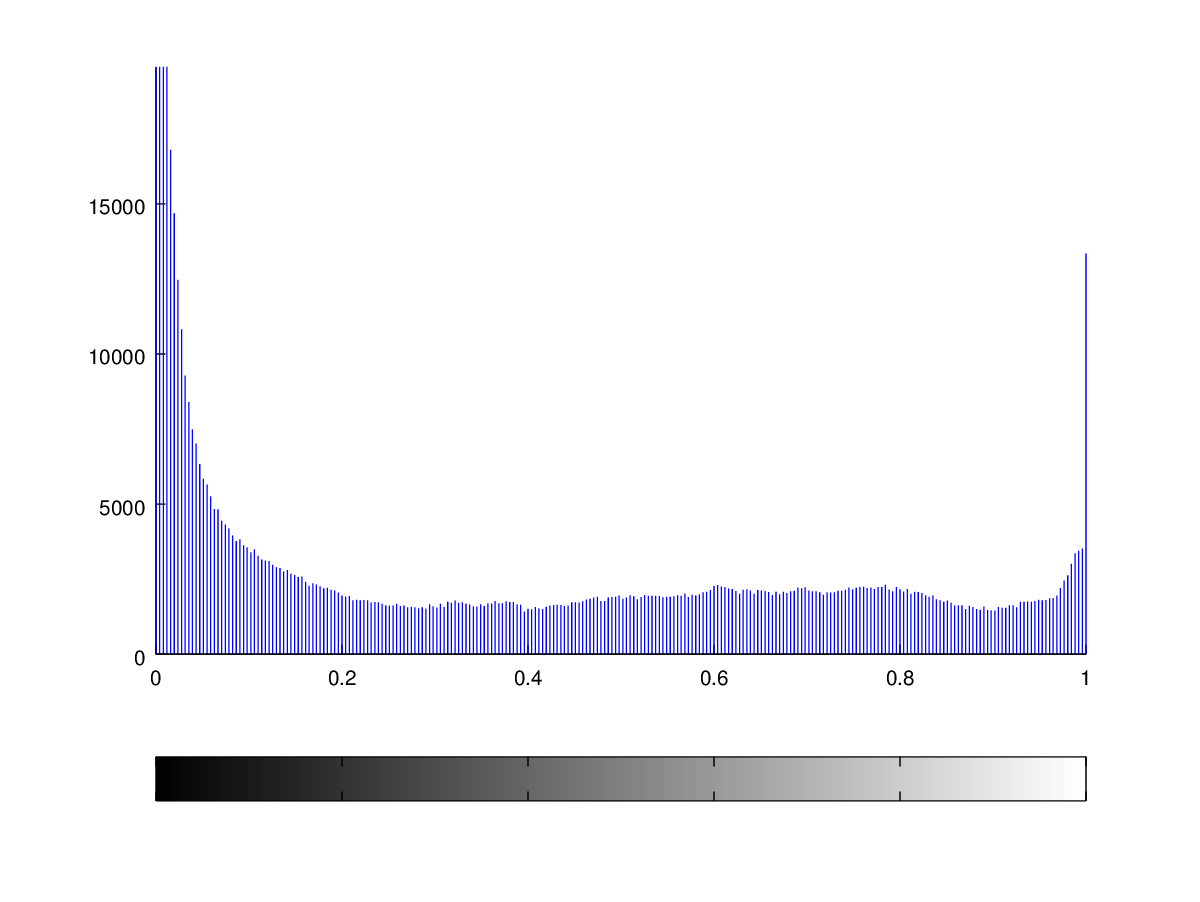
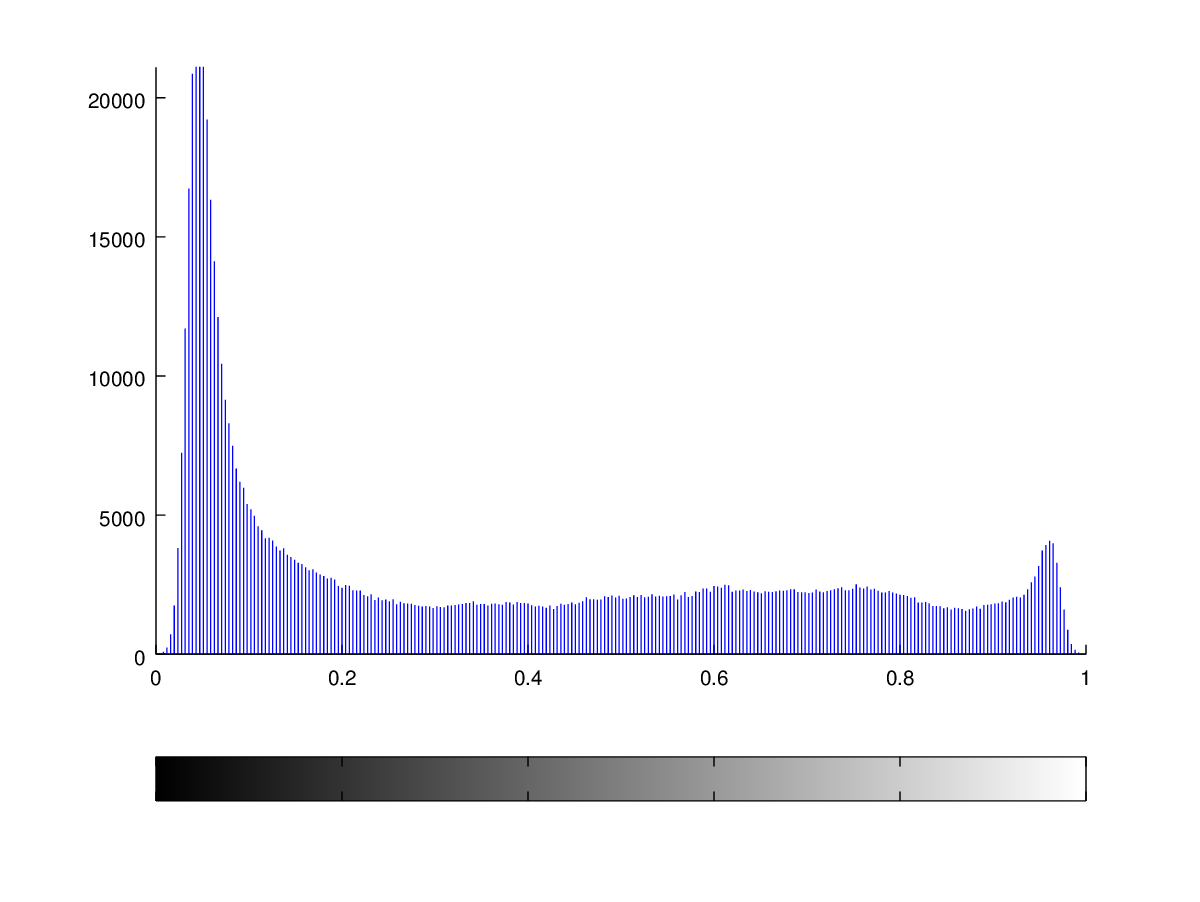
Histogram computed for noisy image

diff --git a/TP6/main.m b/TP6/main.m
@@ -61,6 +61,8 @@ for s = [1] %sigma_conv
 end
 
 noise_level = 0.01;
+I_noisy += randn(size(I)) * noise_level;
+
 disp('Deconvolution avec bruit')
 I_hat_noisy = gaussianFilter(I, 3.5, noise_level);
 title_ = [output_dir "deconvolution_sigma_" num2str(s) "_noise_" num2str(noise_level) ".png"];
@@ -82,15 +84,15 @@ end
 % Per-channel feature scaling [minimum, maximum] -> [0, 1]
 I_scaled = zeros(size(I));
 for k = [1:3]
-  max_ = max(max(I(:, :, k)));
-  min_ = min(min(I(:, :, k)));
-  I_scaled(:, :, k) = (I(:, :, k) - min_)/(max_ - min_);
+  max_ = max(max(I_noisy(:, :, k)));
+  min_ = min(min(I_noisy(:, :, k)));
+  I_scaled(:, :, k) = (I_noisy(:, :, k) - min_)/(max_ - min_);
 end
 
 title_= [output_dir "feature_scaled.png"];
 imwrite(I_scaled, title_);
 pkg load image;
-imhist(I); print([output_dir "hist_orig.png"]);
+imhist(I_noisy); print([output_dir "hist_orig.png"]);
 imhist(I_scaled);print([output_dir "hist_scaled.png"]);
 % Boost de la saturation
 saturationBoost(I_scaled, 1.5);
